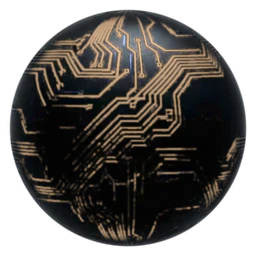
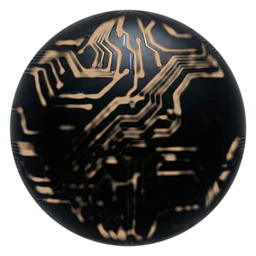
Round 2, piece 4c: an empty star's traces are strokes at 46 px, not blotches
On a 1x desktop screen a star at its station is 36 to 53 px across, so a screen pixel
is 8 to 13 px of the frame the station picture is derived in, and the pack's traces
run in bundles 7 px apart: two to a pixel. Thickened one by one, as scripts/assets/
sky.mjs did, a bundle closed up into a solid band: marble, not circuit.

The traces are now filtered to the band a star of that size can show (a blur of 4 px
less a blur of 11 px): a lone trace is a stroke about a screen pixel wide, a bundle is
the strokes at its edges with the dark kept between them. Read along the rows of the
47 px star's disc on the production build, the brass came in runs 3.08 px long on
average (30 of 86 runs 4 px or longer); it comes in runs of 2.00 px (13 of 109). On
the phone the traces still show (57 device px: 3.20 -> 2.24 px). A lit star is as it
was. The shader and the sizes are untouched.

A test that fails on the old picture: src/experience/sky-station-picture.test.ts.
Before and after in one run of one build: refs/verification/round-2/tools/
star-side.mjs, round-2/stars/side-by-side.png.

Claude-Session: https://claude.ai/code/session_012W2mjAvaNe8UQ2tuJLbV2x

diff --git a/src/experience/sky-station-picture.test.ts b/src/experience/sky-station-picture.test.ts
@@ -1,0 +1,61 @@
+// The picture an empty star is drawn from at its station
+// (public/cellestial/sky/b4-station.webp, derived by scripts/assets/sky.mjs
+// from the pack's B4). Round 2's second look found that on a 1x screen, a
+// star 46 px across, its brass traces had closed up into blotches: "more
+// marble than circuit". The traces are now filtered to the size they are seen
+// at, so that strokes stay apart. These tests fail on the picture as it was.
+//
+// The picture is brought to the size of a star at its station (36 to 58
+// screen pixels across) and the brass is read along every row of the disc: a
+// line crossed by a row is a short run of brass, a blotch a long one.
+
+import assert from 'node:assert/strict';
+import { join } from 'node:path';
+import { test } from 'node:test';
+import sharp from 'sharp';
+
+const FILE = join(import.meta.dirname, '../../public/cellestial/sky/b4-station.webp');
+/** The disc in the picture's own frame: 256 px, the sphere 236 across (b4Empty's frame, halved). */
+const FRAME = { size: 256, disc: 236 };
+
+async function brassRuns(across: number) {
+	const size = Math.round((FRAME.size * across) / FRAME.disc);
+	const { data, info } = await sharp(FILE)
+		.flatten({ background: '#000' })
+		.resize({ width: size, height: size, kernel: 'linear' })
+		.raw()
+		.toBuffer({ resolveWithObject: true });
+	let runs = 0;
+	let brass = 0;
+	let long = 0;
+	let inside = 0;
+	for (let y = 0; y < size; y++) {
+		let run = 0;
+		for (let x = 0; x <= size; x++) {
+			const i = (y * size + x) * info.channels;
+			const d = x < size ? Math.hypot(x + 0.5 - size / 2, y + 0.5 - size / 2) / (across / 2) : 9;
+			const r = data[i] ?? 0;
+			const b = data[i + 2] ?? 0;
+			if (d < 0.8) inside++;
+			if (d < 0.8 && r - b > 18 && r > 70) run++;
+			else if (run) {
+				runs++;
+				brass += run;
+				if (run >= 4) long++;
+				run = 0;
+			}
+		}
+	}
+	return { mean: brass / runs, long: long / runs, cover: brass / inside };
+}
+
+for (const across of [36, 46, 58]) {
+	test(`an empty star ${across} px across: its brass is strokes, not blotches`, async () => {
+		const { mean, long, cover } = await brassRuns(across);
+		// As it was: 2.7 to 3.2 px, and a quarter to a third of the runs 4 px or longer.
+		assert.ok(mean < 2.5, `a row crosses ${mean.toFixed(2)} px of brass at a time`);
+		assert.ok(long < 0.18, `${(100 * long).toFixed(0)}% of the runs are 4 px or longer`);
+		// And the traces still show: a fifth of the disc is brass (a plain dark bead has none).
+		assert.ok(cover > 0.15, `brass covers ${(100 * cover).toFixed(1)}% of the disc`);
+	});
+}
